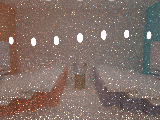
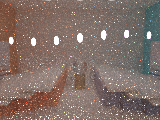
Slice-B1 final-review fixes: object radiance_map warning, gallery, notes
- P2-1: the per-object radiance_map warning now matches real rasterizer
  keywords (pixelpel / pixelintegratingspectral / pathtracing / bdpt / vcm /
  auto / mlt) and keys on the LAST declared one, the one Job activates; the
  Rasterizer category's file_rasterizeroutput and light_rr_threshold no
  longer count.  DeprecatedMaterialWarningTest gains a legacy scene with
  light_rr_threshold + file_rasterizeroutput, a rasterizer-level-only map,
  and last-declared-wins cases (376/0).
- P2-2: the gallery's different_rmaps note was garbled; it now says the scene
  moved to the legacy corpus and the per-object map is frozen.
- spotlight_drama comments say x0.2904 for the three spots (x0.29 backlight).
- photon_cloister re-measured over 12 salts (retuned 0.2187; legacy 0.2438
  with a 12% salt sd, firefly-dominated); gallery and doc updated, not retuned.

diff --git a/docs/legacy_phase2b_review/index.html b/docs/legacy_phase2b_review/index.html
@@ -14,11 +14,11 @@ td.n{font-variant-numeric:tabular-nums;white-space:nowrap} .sd{color:var(--mut);
 tr.hl{background:var(--hl)} .big{color:var(--big);font-weight:700} .nz{color:var(--nz);font-weight:600} .na{color:var(--mut)}
 </style></head><body>
 <h1>Legacy deprecation Phase 2 slice B1: look review</h1>
-<p class="lead">44 scenes moved off <code>pixelpel_rasterizer</code> / <code>pixelintegratingspectral_rasterizer</code> by <code>tools/migrate_scenes_legacy_rasterizer.py --mode full</code>: photon map / final gather / irradiance cache, point-cloud SSS, Whitted, distribution-tracing and area-light-op chains. "Before" is the scene at master <code>83aa86d2f</code>; "after" is the migrated scene. Both are rendered at reduced resolution (long side 160 px) with the shipped sample counts, three Sobol' value salts each (blurry_floor: eight); the thumbnails are salt 1, the PRE-denoise image composited over black, linear Rec.709 clamped to [0,1] and sRGB-encoded identically. The third column is the after-image as OIDN denoises it (shown for FeatureBased showcases, which keep denoising on as authored). Mean Y is the Rec.709 luminance of the composited raw image, mean over the salts (&plusmn; salt-to-salt sd; the unclamped mean, so a blown-out image reads far above 1). <b>6</b> scenes change by more than 10%; each carries a measured cause. "noisy" flags a salt sd above 5% of the mean.</p>
+<p class="lead">44 scenes moved off <code>pixelpel_rasterizer</code> / <code>pixelintegratingspectral_rasterizer</code> by <code>tools/migrate_scenes_legacy_rasterizer.py --mode full</code>: photon map / final gather / irradiance cache, point-cloud SSS, Whitted, distribution-tracing and area-light-op chains. "Before" is the scene at master <code>83aa86d2f</code>; "after" is the migrated scene. Both are rendered at reduced resolution (long side 160 px) with the shipped sample counts, three Sobol' value salts each (blurry_floor eight, photon_cloister twelve); the thumbnails are salt 1, the PRE-denoise image composited over black, linear Rec.709 clamped to [0,1] and sRGB-encoded identically. The third column is the after-image as OIDN denoises it (shown for FeatureBased showcases, which keep denoising on as authored). Mean Y is the Rec.709 luminance of the composited raw image, mean over the salts (&plusmn; salt-to-salt sd; the unclamped mean, so a blown-out image reads far above 1). <b>7</b> scenes change by more than 10%; each carries a measured cause. "noisy" flags a salt sd above 5% of the mean.</p>
 <h2>How to read the large changes</h2><ul class="lead">
-<li><b>Fudge factors removed.</b> The point-cloud SSS ops scaled their glow by <code>irrad_scale</code> and the photon maps their caustics by <code>power_scale</code>; neither is physical. Doubling a scene's <code>irrad_scale</code> moves its legacy mean linearly (measured per scene), so those looks were tuned, and the physical replacements (<code>subsurfacescattering_material</code>, VCM) come out brighter or darker by whatever the fudge was. The light-scale knob that restores each mean is listed.</li>
+<li><b>Fudge factors removed.</b> The point-cloud SSS ops scaled their glow by <code>irrad_scale</code> and the photon maps their caustics by <code>power_scale</code>; neither is physical. Doubling a scene's <code>irrad_scale</code> moves its legacy mean linearly (measured per scene), so those looks were tuned, and the physical replacements (<code>subsurfacescattering_material</code>, VCM) come out brighter or darker by whatever the fudge was. The owner-approved light retunes that restore each mean are applied (see below).</li>
 <li><b>Truncated or missing transport restored.</b> The legacy chains had no indirect diffuse op (Whitted, glossy-only DT, AO), truncated it (final gather, photon maps), or had no direct lighting at all (diacaustic, motion_blurred_caustic). Measured by rendering PT with <code>max_diffuse_bounce</code> 0 / 1 / 2 against the legacy image.</li>
-<li><b>Not migrated:</b> <code>different_rmaps</code> <li><b>Held, not migrated:</b> <code>Tests/Shaders/different_rmaps</code> &mdash; its subject is per-OBJECT <code>radiance_map</code>, which only the legacy shader-op chain honours (the path tracer, BDPT and VCM read only the rasterizer's map); migrating would drop the feature silently. Needs an owner decision. Also left:mdash; per-OBJECT <code>radiance_map</code> is now FROZEN (only the legacy chain honours it); the scene moved unmigrated to <code>scenes/Tests/Legacy/</code>. Also left: <code>visiblehuman</code> (frozen DVR), <code>shapes</code> and <code>kaleidoscope_atrium</code> (slice C).</li>
+<li><b>Not migrated:</b> <code>different_rmaps</code> &mdash; per-OBJECT <code>radiance_map</code> is FROZEN (owner-approved): only the legacy shader-op chain honours it, while the path tracer, BDPT and VCM read only the rasterizer's map, and a load warning now says so. The scene moved unmigrated into the legacy corpus, <code>scenes/Tests/Legacy/different_rmaps.RISEscene</code>, where its legacy render is hash-pinned. Also left: <code>visiblehuman</code> (frozen DVR), <code>shapes</code> and <code>kaleidoscope_atrium</code> (slice C).</li>
 <li><b>Owner-approved retunes</b> (2026-10-10) were applied to the twelve scenes whose fudge factors or truncation had moved them most; each is back within 1% of its legacy mean (the "migrated, before retune" column shows where the bare migration landed). The after-images are the retuned scenes.</li></ul>
 
 <div class="tw"><table><thead><tr><th>Scene</th><th>Before (legacy)</th><th>After (migrated, raw)</th><th>After (denoised)</th><th>Mean Y before</th><th>Mean Y migrated, before retune</th><th>Mean Y after</th><th>Change</th><th>Cause</th></tr></thead><tbody>
@@ -29,10 +29,10 @@ tr.hl{background:var(--hl)} .big{color:var(--big);font-weight:700} .nz{color:var
 <tr><td class="nm"><code>FeatureBased/Combined/gi_spheres.RISEscene</code><div class="meta">final gather + global photon map + irradiance cache &rarr; bdpt_pel (strong diffuse indirect; AutoRasterizer routes it to BDPT)</div></td><td class="im"><img src="img/scenes__FeatureBased__Combined__gi_spheres_before.png" alt=""></td><td class="im"><img src="img/scenes__FeatureBased__Combined__gi_spheres_after.png" alt=""></td><td class="im"><img src="img/scenes__FeatureBased__Combined__gi_spheres_after_denoised.png" alt=""></td><td class="n">0.3996<div class="sd">&plusmn;0.00093</div></td><td class="n"><span class="na">&ndash;</span></td><td class="n">0.4082<div class="sd">&plusmn;0.00031</div></td><td class="n">+2.1%</td><td class="meta"><div class="sc"><b>Showcase:</b> Look kept (+2.2%), smoother.</div></td></tr>
 <tr><td class="nm"><code>FeatureBased/Combined/glass_pavilion.RISEscene</code><div class="meta">Whitted (glass) + DL (global) + PT (floor only) &rarr; pathtracing_pel (full GI: the floor chain was a path tracer)</div></td><td class="im"><img src="img/scenes__FeatureBased__Combined__glass_pavilion_before.png" alt=""></td><td class="im"><img src="img/scenes__FeatureBased__Combined__glass_pavilion_after.png" alt=""></td><td class="im"><img src="img/scenes__FeatureBased__Combined__glass_pavilion_after_denoised.png" alt=""></td><td class="n">0.1205<div class="sd">&plusmn;4.6e-05</div></td><td class="n">0.3246<div class="sd">&plusmn;0.0061</div><div class="sd">+169.4%</div></td><td class="n">0.1208<div class="sd">&plusmn;0.0024</div></td><td class="n">+0.2%</td><td class="meta"><div><b>Retuned (owner-approved):</b> omni powers 15 / 25 -&gt; 5.6 / 9.3.</div>Measured: the same scene with max_diffuse_bounce 0 reads 0.134 (+11%), so +158 of the +169 points is indirect light on the walls / props, which the legacy chain shaded with direct lighting only (only the floor path-traced).</td></tr>
 <tr><td class="nm"><code>FeatureBased/Combined/showroom.RISEscene</code><div class="meta">AO + DT + DL + irradiance cache &rarr; pathtracing_pel</div></td><td class="im"><img src="img/scenes__FeatureBased__Combined__showroom_before.png" alt=""></td><td class="im"><img src="img/scenes__FeatureBased__Combined__showroom_after.png" alt=""></td><td class="im"><img src="img/scenes__FeatureBased__Combined__showroom_after_denoised.png" alt=""></td><td class="n">0.649<div class="sd">&plusmn;0.076</div></td><td class="n">0.4591<div class="sd">&plusmn;0.00038</div><div class="sd">-29.3%</div></td><td class="n">0.6463<div class="sd">&plusmn;0.0022</div></td><td class="n">-0.4% <span class="nz">noisy</span></td><td class="meta"><div><b>Retuned (owner-approved):</b> radiance_scale 1 -&gt; 1.75 (measured).</div>Measured: legacy without the AO op reads 0.449 (after: 0.460, +2.3%): the -29% is the dropped ambientocclusion_shaderop term (owner ruling #6).</td></tr>
-<tr><td class="nm"><code>FeatureBased/Combined/spotlight_drama.RISEscene</code><div class="meta">point-cloud SSS (simple + diffusion) + DT + DL &rarr; pathtracing_pel (subsurfacescattering_material), 256 spp (64 x the DT op&#x27;s 4)</div></td><td class="im"><img src="img/scenes__FeatureBased__Combined__spotlight_drama_before.png" alt=""></td><td class="im"><img src="img/scenes__FeatureBased__Combined__spotlight_drama_after.png" alt=""></td><td class="im"><img src="img/scenes__FeatureBased__Combined__spotlight_drama_after_denoised.png" alt=""></td><td class="n">1.01<div class="sd">&plusmn;0.00049</div></td><td class="n">4.354<div class="sd">&plusmn;0.015</div><div class="sd">+331.3%</div></td><td class="n">1.01<div class="sd">&plusmn;0.00025</div></td><td class="n">+0.0%</td><td class="meta"><div><b>Retuned (owner-approved):</b> the dragon re-authored as GREEN JADE: a Christensen-Burley subsurfacescattering_material with the scene&#x27;s authored jade colour 0.15 0.25 0.15 (pnt_jade_ref) as albedo and a 10-per-unit profile falloff (kept the same SSS model as the scene&#x27;s other SSS objects); then every light x0.29 (spots 20000 / 30000 / 15000 -&gt; 5808 / 8712 / 4356, backlight 30 -&gt; 8.7).  Whole image 1.010 vs legacy 1.010; dragon region 0.414 vs legacy 0.074 (5.6x; it was 84x migrated).  Under the red and blue spots the jade reads lavender-pink, not green (median dragon pixel 0.74 0.27 0.34 at 480 px); a green read needs a whiter key on the dragon.</div>Measured: doubling the legacy ops&#x27; irrad_scale adds 0.30 to the legacy 1.01, i.e. the SSS brightness was set by fudge factors; the physical SSS materials under the 15000-30000 power spots read much brighter.  The dragon&#x27;s op had multiplybsdf FALSE and gathered irradiance through the override BSDF `sss_white` (white), so the legacy dragon never showed the jade material&#x27;s green; the migrated albedo comes from that override path: white (clamped 0.95) x the op&#x27;s 1/extinction^2 weights = 0.95 0.444444 0.0493827.  The dragon region keeps its hue (chromaticity r:g:b 0.912:0.065:0.022 legacy vs 0.919:0.067:0.014 now, in the red spotlight) but is ~96x the legacy brightness at shipped settings (0.083 vs 8.0, review measurement; 84x at the gallery&#x27;s 160 px).</td></tr>
+<tr><td class="nm"><code>FeatureBased/Combined/spotlight_drama.RISEscene</code><div class="meta">point-cloud SSS (simple + diffusion) + DT + DL &rarr; pathtracing_pel (subsurfacescattering_material), 256 spp (64 x the DT op&#x27;s 4)</div></td><td class="im"><img src="img/scenes__FeatureBased__Combined__spotlight_drama_before.png" alt=""></td><td class="im"><img src="img/scenes__FeatureBased__Combined__spotlight_drama_after.png" alt=""></td><td class="im"><img src="img/scenes__FeatureBased__Combined__spotlight_drama_after_denoised.png" alt=""></td><td class="n">1.01<div class="sd">&plusmn;0.00049</div></td><td class="n">4.354<div class="sd">&plusmn;0.015</div><div class="sd">+331.3%</div></td><td class="n">1.01<div class="sd">&plusmn;0.00025</div></td><td class="n">+0.0%</td><td class="meta"><div><b>Retuned (owner-approved):</b> the dragon re-authored as GREEN JADE: a Christensen-Burley subsurfacescattering_material with the scene&#x27;s authored jade colour 0.15 0.25 0.15 (pnt_jade_ref) as albedo and a 10-per-unit profile falloff (kept the same SSS model as the scene&#x27;s other SSS objects); then the spots x0.2904 and the backlight x0.29 (spots 20000 / 30000 / 15000 -&gt; 5808 / 8712 / 4356, backlight 30 -&gt; 8.7).  Whole image 1.010 vs legacy 1.010; dragon region 0.414 vs legacy 0.074 (5.6x; it was 84x migrated).  Under the red and blue spots the jade reads lavender-pink, not green (median dragon pixel 0.74 0.27 0.34 at 480 px); a green read needs a whiter key on the dragon.</div>Measured: doubling the legacy ops&#x27; irrad_scale adds 0.30 to the legacy 1.01, i.e. the SSS brightness was set by fudge factors; the physical SSS materials under the 15000-30000 power spots read much brighter.  The dragon&#x27;s op had multiplybsdf FALSE and gathered irradiance through the override BSDF `sss_white` (white), so the legacy dragon never showed the jade material&#x27;s green; the migrated albedo comes from that override path: white (clamped 0.95) x the op&#x27;s 1/extinction^2 weights = 0.95 0.444444 0.0493827.  The dragon region keeps its hue (chromaticity r:g:b 0.912:0.065:0.022 legacy vs 0.919:0.067:0.014 now, in the red spotlight) but is ~96x the legacy brightness at shipped settings (0.083 vs 8.0, review measurement; 84x at the gallery&#x27;s 160 px).</td></tr>
 <tr><td class="nm"><code>FeatureBased/Geometry/teapot.RISEscene</code><div class="meta">Whitted (reflection) &rarr; pathtracing_pel, max_diffuse_bounce 0</div></td><td class="im"><img src="img/scenes__FeatureBased__Geometry__teapot_before.png" alt=""></td><td class="im"><img src="img/scenes__FeatureBased__Geometry__teapot_after.png" alt=""></td><td class="im"><img src="img/scenes__FeatureBased__Geometry__teapot_after_denoised.png" alt=""></td><td class="n">0.5451<div class="sd">&plusmn;0.0025</div></td><td class="n"><span class="na">&ndash;</span></td><td class="n">0.5437<div class="sd">&plusmn;0.0012</div></td><td class="n">-0.3%</td><td class="meta"><div class="sc"><b>Showcase:</b> Look kept (-0.3%).</div></td></tr>
 <tr><td class="nm"><code>FeatureBased/GlobalIllumination/irradiance_cache_torture.RISEscene</code><div class="meta">final gather + global photon map + irradiance cache &rarr; bdpt_pel (strong diffuse indirect, gi_spheres-class)</div></td><td class="im"><img src="img/scenes__FeatureBased__GlobalIllumination__irradiance_cache_torture_before.png" alt=""></td><td class="im"><img src="img/scenes__FeatureBased__GlobalIllumination__irradiance_cache_torture_after.png" alt=""></td><td class="im"><img src="img/scenes__FeatureBased__GlobalIllumination__irradiance_cache_torture_after_denoised.png" alt=""></td><td class="n">0.5492<div class="sd">&plusmn;0.00093</div></td><td class="n"><span class="na">&ndash;</span></td><td class="n">0.5511<div class="sd">&plusmn;0.00026</div></td><td class="n">+0.3%</td><td class="meta"><div class="sc"><b>Showcase:</b> Look kept (+0.3%).</div></td></tr>
-<tr><td class="nm"><code>FeatureBased/Parser/photon_cloister.RISEscene</code><div class="meta">caustic + global photon maps + DL + Whitted &rarr; pathtracing_pel + SMS (env-lit; spot-light caustics through glass)</div></td><td class="im"><img src="img/scenes__FeatureBased__Parser__photon_cloister_before.png" alt=""></td><td class="im"><img src="img/scenes__FeatureBased__Parser__photon_cloister_after.png" alt=""></td><td class="im"><img src="img/scenes__FeatureBased__Parser__photon_cloister_after_denoised.png" alt=""></td><td class="n">0.2198<div class="sd">&plusmn;0.0095</div></td><td class="n">21.89<div class="sd">&plusmn;0.21</div><div class="sd">+9861.4%</div></td><td class="n">0.2196<div class="sd">&plusmn;0.0014</div></td><td class="n">-0.1%</td><td class="meta"><div><b>Retuned (owner-approved):</b> the one-sided ceiling disks, which faced the ceiling 8 cm above them, are FLIPPED (orientation 180 0 0) to emit into the room, and their scales go 12000 / 10000 -&gt; 5.5 / 4.58.</div>Measured: with the two ceiling luminaires at scale 0.001 the legacy reads 0.081 and PT 0.168, so the luminaires are +0.14 under the legacy chain and +21.7 under PT. The one-sided disks face the ceiling (circulardisk normal +y), 8 cm below it: their light reaches the room only by bouncing off the ceiling (summed emitted power ~6e4, onto a 12 x 12 ceiling), and the legacy chain&#x27;s only estimate of that bounce, its 10000-photon global map, read ~150x below PT&#x27;s converged value.</td></tr>
+<tr class="hl"><td class="nm"><code>FeatureBased/Parser/photon_cloister.RISEscene</code><div class="meta">caustic + global photon maps + DL + Whitted &rarr; pathtracing_pel + SMS (env-lit; spot-light caustics through glass)</div></td><td class="im"><img src="img/scenes__FeatureBased__Parser__photon_cloister_before.png" alt=""></td><td class="im"><img src="img/scenes__FeatureBased__Parser__photon_cloister_after.png" alt=""></td><td class="im"><img src="img/scenes__FeatureBased__Parser__photon_cloister_after_denoised.png" alt=""></td><td class="n">0.2438<div class="sd">&plusmn;0.029</div></td><td class="n">21.89<div class="sd">&plusmn;0.21</div><div class="sd">+8879.7%</div></td><td class="n">0.2187<div class="sd">&plusmn;0.0013</div></td><td class="n">-10.3% <span class="big">&gt;10%</span> <span class="nz">noisy</span></td><td class="meta"><div><b>Retuned (owner-approved):</b> the one-sided ceiling disks, which faced the ceiling 8 cm above them, are FLIPPED (orientation 180 0 0) to emit into the room, and their scales go 12000 / 10000 -&gt; 5.5 / 4.58.</div>Measured: with the two ceiling luminaires at scale 0.001 the legacy reads 0.081 and PT 0.168, so the luminaires are +0.14 under the legacy chain and +21.7 under PT. The one-sided disks face the ceiling (circulardisk normal +y), 8 cm below it: their light reaches the room only by bouncing off the ceiling (summed emitted power ~6e4, onto a 12 x 12 ceiling), and the legacy chain&#x27;s only estimate of that bounce, its 10000-photon global map, read ~150x below PT&#x27;s converged value. Re-measured with 12 salts (both sides): legacy 0.2438 (salt sd 0.029, i.e. 12%: its 6-spp photon-map image is firefly-dominated, standard error 0.008) vs retuned 0.2187 (sd 0.0013). The 3-salt legacy figure the retune targeted (0.2198) sits inside that spread, so the -10% here is within about 3 legacy standard errors; not retuned further.</td></tr>
 <tr><td class="nm"><code>FeatureBased/Parser/pillow.RISEscene</code><div class="meta">DT (diffuse false, glossy only) + DL &rarr; pathtracing_pel, max_diffuse_bounce 0 (direct + glossy)</div></td><td class="im"><img src="img/scenes__FeatureBased__Parser__pillow_before.png" alt=""></td><td class="im"><img src="img/scenes__FeatureBased__Parser__pillow_after.png" alt=""></td><td class="im"><img src="img/scenes__FeatureBased__Parser__pillow_after_denoised.png" alt=""></td><td class="n">0.9888<div class="sd">&plusmn;0.0079</div></td><td class="n"><span class="na">&ndash;</span></td><td class="n">0.9733<div class="sd">&plusmn;0.0012</div></td><td class="n">-1.6%</td><td class="meta"><div class="sc"><b>Showcase:</b> Look kept (-1.6%); 72 spp (6 x the DT op&#x27;s 12), satin highlights smoother.</div></td></tr>
 <tr><td class="nm"><code>FeatureBased/Shaders/SSS/sss_gi_dragon.RISEscene</code><div class="meta">point-cloud SSS + final gather + global photon map + irradiance cache &rarr; pathtracing_pel (subsurfacescattering_material)</div></td><td class="im"><img src="img/scenes__FeatureBased__Shaders__SSS__sss_gi_dragon_before.png" alt=""></td><td class="im"><img src="img/scenes__FeatureBased__Shaders__SSS__sss_gi_dragon_after.png" alt=""></td><td class="im"><img src="img/scenes__FeatureBased__Shaders__SSS__sss_gi_dragon_after_denoised.png" alt=""></td><td class="n">0.3917<div class="sd">&plusmn;0.0008</div></td><td class="n">0.8576<div class="sd">&plusmn;0.0037</div><div class="sd">+119.0%</div></td><td class="n">0.392<div class="sd">&plusmn;0.0015</div></td><td class="n">+0.1%</td><td class="meta"><div><b>Retuned (owner-approved):</b> luminaire scale 8.2 -&gt; 3.8.</div>Measured: PT capped at 3 diffuse bounces reads 0.509 (full 0.849): the box walls have albedo 1.0, so the bounces the legacy final gather truncated carry 40% of the converged image; the rest is the green SSS dragon (fudge-scaled before).</td></tr>
 <tr class="hl"><td class="nm"><code>Tests/Animation/motion_blurred_caustic.RISEscene</code><div class="meta">caustic photon map + Whitted (no DL) &rarr; vcm_pel (caustics)</div></td><td class="im"><img src="img/scenes__Tests__Animation__motion_blurred_caustic_before.png" alt=""></td><td class="im"><img src="img/scenes__Tests__Animation__motion_blurred_caustic_after.png" alt=""></td><td class="im"><span class="na">&ndash;</span></td><td class="n">0.07957<div class="sd">&plusmn;0.01</div></td><td class="n"><span class="na">&ndash;</span></td><td class="n">0.08857<div class="sd">&plusmn;0.00013</div></td><td class="n">+11.3% <span class="big">&gt;10%</span> <span class="nz">noisy</span></td><td class="meta">VCM: the scene exists for its caustics (photon map), which only VCM reaches from these lights. Measured: the legacy chain had NO direct lighting (legacy + DefaultDirectLighting reads 0.160); its caustic was 0.079 at power_scale 21.24, about 10x the physical caustic VCM renders.</td></tr>

diff --git a/src/Library/Cst/Cst.cpp b/src/Library/Cst/Cst.cpp
@@ -3394,7 +3394,15 @@ int DeriveToJob( const Document& doc, IJob& pJob, std::vector<std::string>* diag
 	// nothing about the derive changes.
 	int objectRadianceMaps = 0;
 	std::string firstObjectWithRadianceMap;
-	std::string supportedRasterizer;
+	// The ACTIVE rasterizer is the last one declared (Job::RegisterRasterizer activates each
+	// new one).  Matched by keyword: the Rasterizer category also holds file_rasterizeroutput
+	// and light_rr_threshold, which are not rasterizers.
+	static const char* const kRasterizerKeywords_[] = {
+		"pixelpel_rasterizer", "pixelintegratingspectral_rasterizer",
+		"pathtracing_pel_rasterizer", "pathtracing_spectral_rasterizer",
+		"bdpt_pel_rasterizer", "bdpt_spectral_rasterizer", "vcm_pel_rasterizer", "vcm_spectral_rasterizer",
+		"auto_rasterizer", "auto_spectral_rasterizer", "mlt_rasterizer", "mlt_spectral_rasterizer" };
+	std::string activeRasterizer;
 	for( Pending& p : pending ) {
 		if( !p.isSourceInstance && p.parser ) {
 			const std::string& kwp = p.keyword;
@@ -3405,9 +3413,9 @@ int DeriveToJob( const Document& doc, IJob& pJob, std::vector<std::string>* diag
 					if( objectRadianceMaps++ == 0 ) firstObjectWithRadianceMap = p.bag.GetString( "name", "noname" );
 				}
 			}
-			if( catp == ChunkCategory::Rasterizer && supportedRasterizer.empty()
-			    && kwp != "pixelpel_rasterizer" && kwp != "pixelintegratingspectral_rasterizer" )
-				supportedRasterizer = kwp;
+			if( catp == ChunkCategory::Rasterizer )
+				for( const char* rk : kRasterizerKeywords_ )
+					if( kwp == rk ) { activeRasterizer = kwp; break; }
 		}
 		// scene_variant bake (doc 63): apply the ACTIVE definition per material name.  An active override is applied at
 		// its overridden BASE's slot (so objects bind it by name regardless of the override chunk's file position -- the
@@ -3492,7 +3500,9 @@ int DeriveToJob( const Document& doc, IJob& pJob, std::vector<std::string>* diag
 				"See docs/SCENE_CONVENTIONS.md \"Legacy tiers\" for the full legacy -> modern table.",
 				d.keyword.c_str(), d.count, d.replacement.c_str() );
 	}
-	if( warnDeprecated && objectRadianceMaps > 0 && !supportedRasterizer.empty() )
+	const std::string& supportedRasterizer = activeRasterizer;
+	if( warnDeprecated && objectRadianceMaps > 0 && !activeRasterizer.empty()
+	    && activeRasterizer != "pixelpel_rasterizer" && activeRasterizer != "pixelintegratingspectral_rasterizer" )
 		GlobalLog()->PrintEx( eLog_Warning,
 			"DeriveToJob:: %d object(s) set their own `radiance_map` (first: `%s`), which is LEGACY and UNSUPPORTED "
 			"(frozen 2026-10-10): only the frozen legacy shader-op chain (pixelpel_rasterizer / "

diff --git a/tests/DeprecatedMaterialWarningTest.cpp b/tests/DeprecatedMaterialWarningTest.cpp
@@ -319,6 +319,18 @@ int main()
 			{ "vcm_pel_rasterizer\n{\n}\n",         true,  1, "VCM + object maps: one warning" },
 			{ "pixelpel_rasterizer\n{\n}\n",        true,  0, "the legacy chain honours them: no object-map warning" },
 			{ "pathtracing_pel_rasterizer\n{\n}\n", false, 0, "no object map: no warning" },
+			// P2-1 (slice-B1 final review): non-rasterizer chunks of the Rasterizer
+			// category must not count as a modern rasterizer, a rasterizer-level map is
+			// supported, and the LAST declared rasterizer is the active one.
+			{ "pixelpel_rasterizer\n{\n}\nlight_rr_threshold\n{\nthreshold 0.5\n}\n"
+			  "file_rasterizeroutput\n{\npattern rendered/x\ntype PNG\n}\n",
+			  true,  0, "legacy scene with light_rr_threshold / file_rasterizeroutput: no warning" },
+			{ "pathtracing_pel_rasterizer\n{\nradiance_map pnt\n}\n", false, 0,
+			  "only the rasterizer-level radiance_map: no warning" },
+			{ "pathtracing_pel_rasterizer\n{\n}\npixelpel_rasterizer\n{\n}\n", true, 0,
+			  "last declared (active) rasterizer is legacy: no warning" },
+			{ "pixelpel_rasterizer\n{\n}\nvcm_pel_rasterizer\n{\n}\n", true, 1,
+			  "last declared (active) rasterizer is VCM: one warning" },
 		};
 		for( const Case& c : cases ) {
 			std::string body = objs;
@@ -337,7 +349,10 @@ int main()
 				const std::string m = log->First( needle );
 				Check( m.find( "2 object(s)" ) != std::string::npos && m.find( "`o1`" ) != std::string::npos,
 					std::string( "[object-rmap] " ) + c.what + ": counts both objects and names the first" );
-				Check( m.find( std::string( c.raster ).substr( 0, std::string( c.raster ).find( '\n' ) ) ) != std::string::npos,
+				const std::string rs( c.raster );
+				const size_t lastKw = rs.rfind( "_rasterizer\n{" );
+				const size_t kwStart = rs.rfind( '\n', lastKw ) == std::string::npos ? 0 : rs.rfind( '\n', lastKw ) + 1;
+				Check( m.find( "`" + rs.substr( kwStart, lastKw + 11 - kwStart ) + "`" ) != std::string::npos,
 					std::string( "[object-rmap] " ) + c.what + ": names the rasterizer that ignores it" );
 			}
 			j->release();

diff --git a/docs/LEGACY_DEPRECATION_ASSESSMENT.md b/docs/LEGACY_DEPRECATION_ASSESSMENT.md
@@ -643,10 +643,13 @@ pixel-rasterizer families):**
   `radiance_scale` 0.85 (measured), `sss` omni 500000 -> 280, `sss_different_bsdf` omni
   x11.4, `sss_ibl` `radiance_scale` 0.78, `caustic_sss` spot x18.  `photon_cloister`'s
   one-sided ceiling disks, which faced the ceiling 8 cm above them, were FLIPPED to emit
-  into the room and their scales set to 5.5 / 4.58 (from 12000 / 10000).
+  into the room and their scales set to 5.5 / 4.58 (from 12000 / 10000); re-measured over 12
+  salts it reads 0.2187 against a legacy 0.2438 whose 6-spp photon-map image is
+  firefly-dominated (salt sd 12%, standard error 0.008), so the retune target (a 3-salt 0.2198)
+  is within the legacy noise and was not chased further.
   `spotlight_drama`'s dragon was re-authored as green jade (Christensen-Burley SSS with the
   authored jade colour 0.15 0.25 0.15 as albedo, 10-per-unit falloff) and every light
-  scaled x0.29; whole image 1.010 vs legacy 1.010, dragon region 0.41 vs 0.074 (5.6x, from
+  scaled (spots x0.2904, backlight x0.29); whole image 1.010 vs legacy 1.010, dragon region 0.41 vs 0.074 (5.6x, from
   84x migrated).  Under the scene's red and blue spots the jade reads lavender-pink, not
   green (median dragon pixel 0.74 0.27 0.34); a green read needs a whiter key on the dragon,
   which is a lighting-design call.
